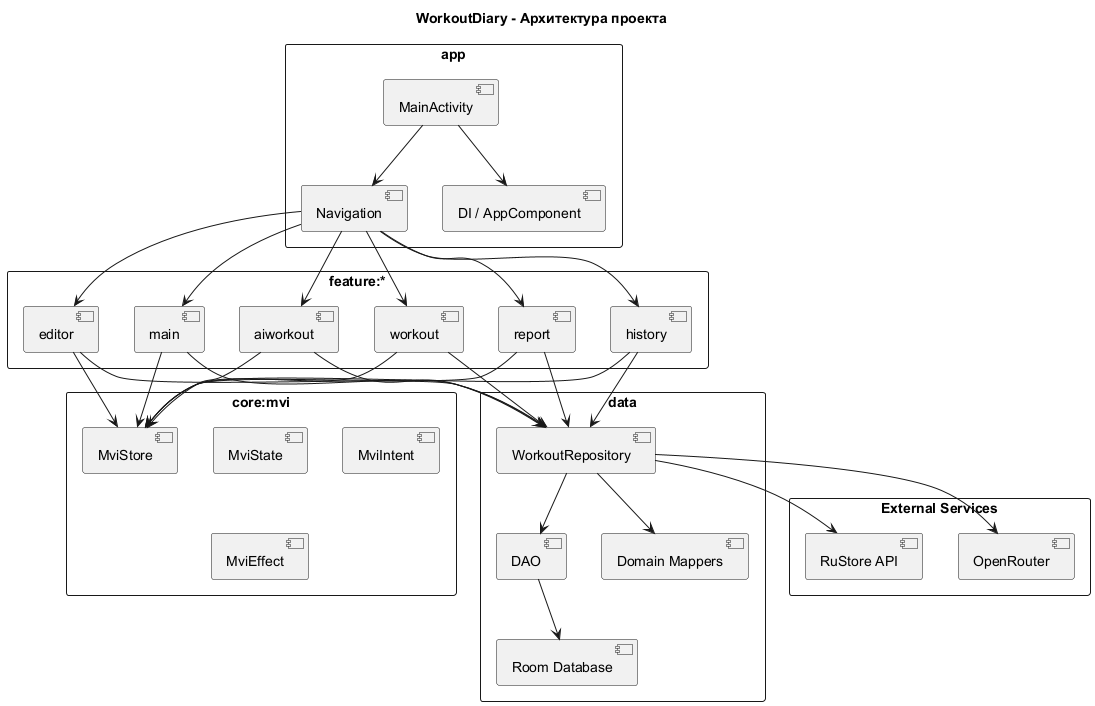
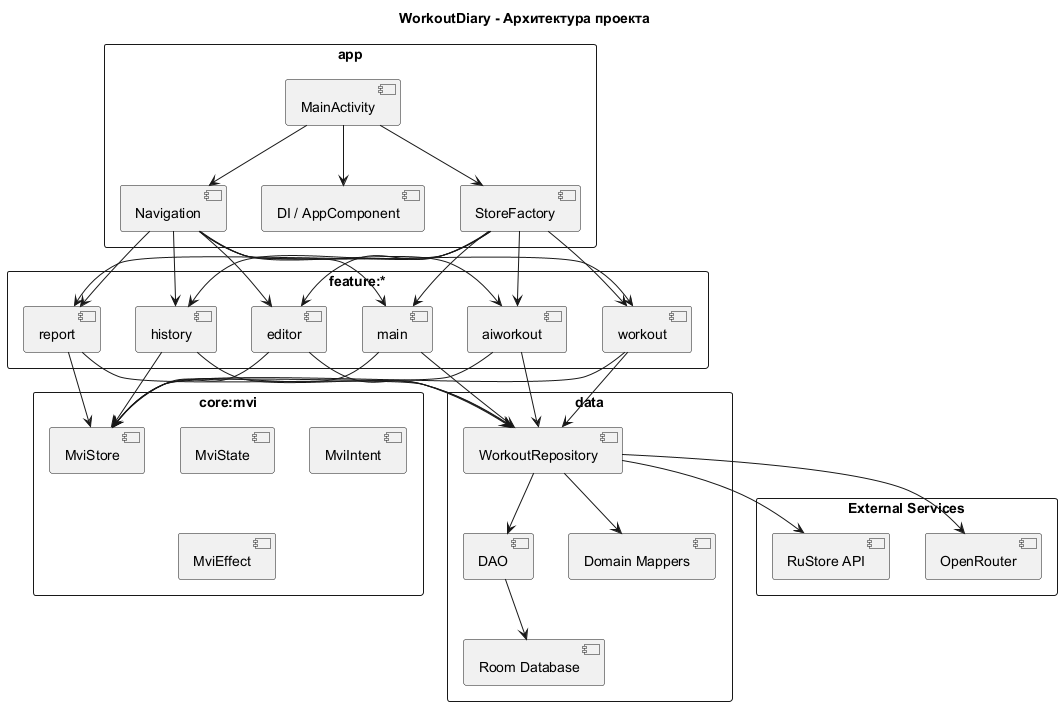
Обновила README.md и диаграммы

diff --git a/README.md b/README.md
@@ -105,6 +105,7 @@ app/build/reports/jacoco/jacocoTestReport/html/index.html
 - `app` отвечает за DI, навигацию и связывание feature-модулей;
 - каждая фича вынесена в отдельные модули `api` и `impl`;
 - состояние экрана хранится в `Store` (`MviStore`), UI только отображает `State` и отправляет `Intent`;
+- создание store централизовано через `StoreFactory`, чтобы `MainActivity` не собирала зависимости вручную;
 - доступ к данным идет через `WorkoutRepository`;
 - локальное хранение реализовано через `Room` (`DAO -> repository -> domain models`);
 - внешняя AI-интеграция вынесена в отдельную feature `aiworkout`.
